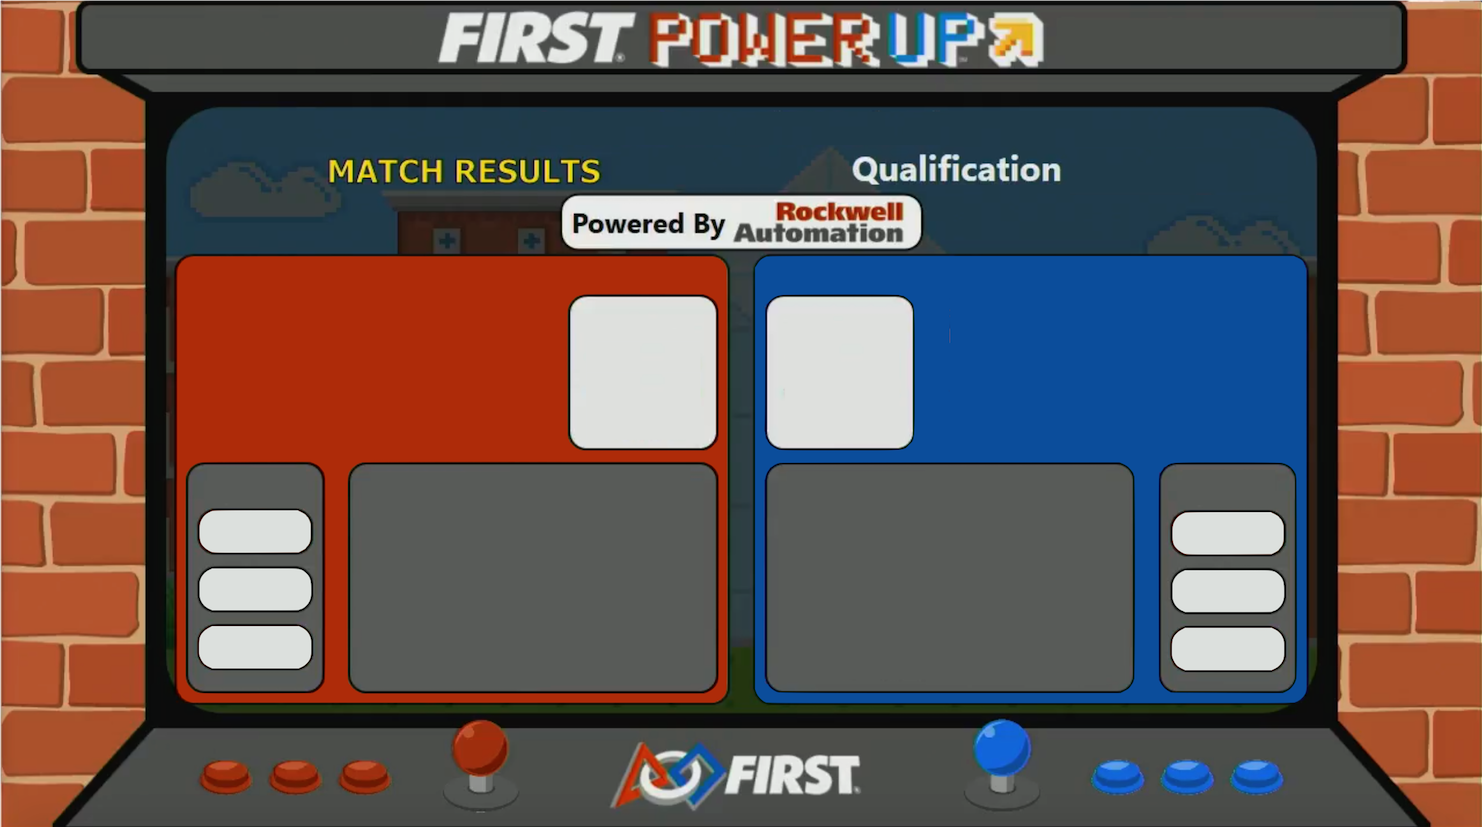
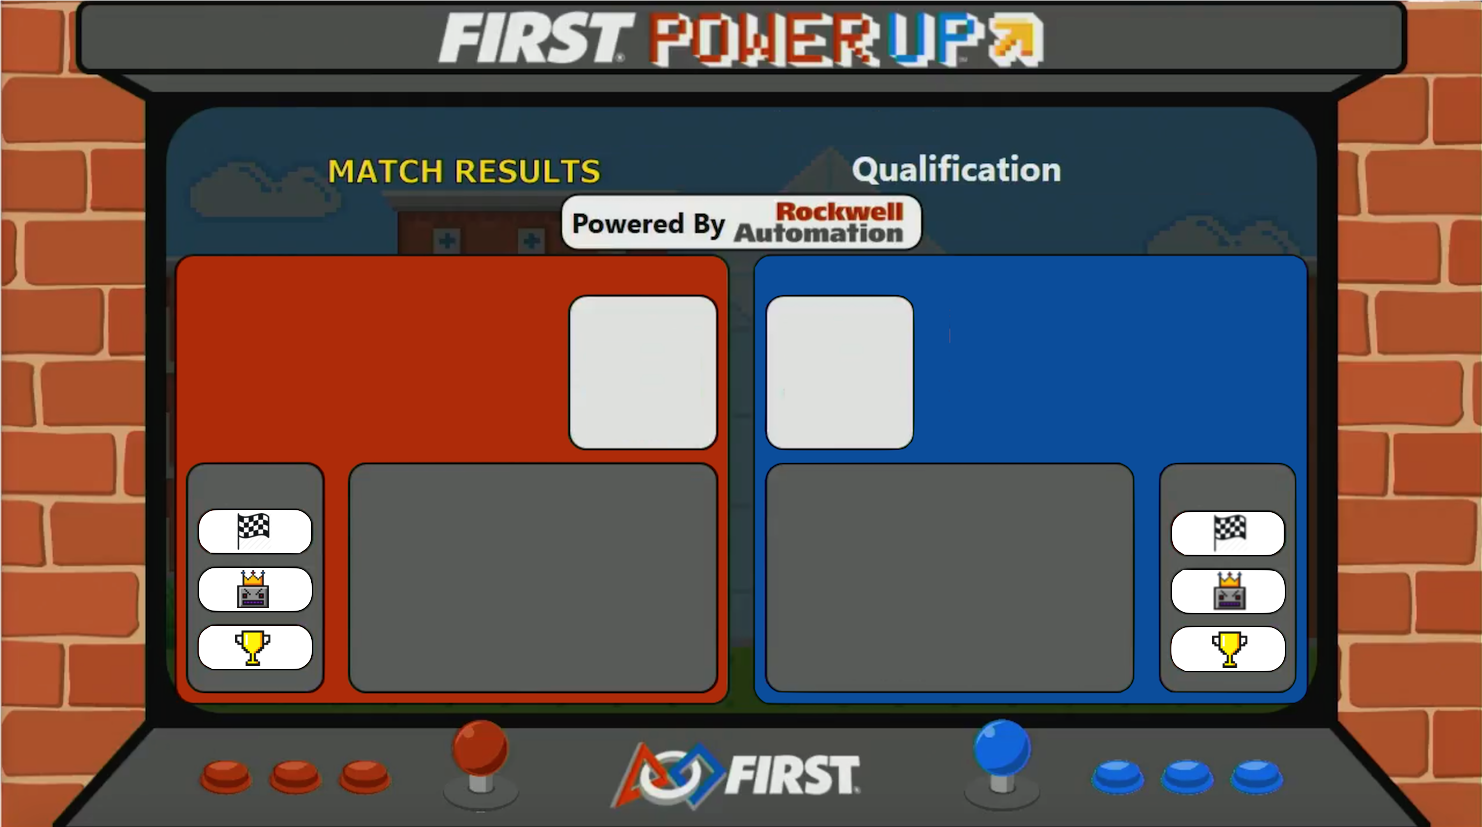
final commit

Changed region(s): [[0.776, 0.6046, 0.8691, 0.8162], [0.1242, 0.6046, 0.2173, 0.8162]]

diff --git a/index.html b/index.html
@@ -10,12 +10,15 @@
 
    </script>
    <body>
-		<canvas id="myCanvas" width="1482" height="827" style = "margin:0px">
+		<canvas id="myCanvas" width="1482" height="1000" style = "margin:0px">
    </body>
    <script>
 		// global vars
 		var matchScreen = true;
 		var videoEnded = false;
+
+		var redAutoQuest = false;
+		var blueAutoQuest = false;
 
 		var gameTime = -4;
 		// teams
@@ -89,19 +92,21 @@
 	      	// draw();
 	    });
 
-	    socket.on('finalize',function(_redAuto, _redEndgame, _redOwnership, _redVault, _redFoul, _blueAuto, _blueEndgame, _blueOwnership, _blueVault, _blueFoul) {
+	    socket.on('finalize',function(_redAuto, _redEndgame, _redOwnership, _redVault, _redFoul, _redAutoQuest, _blueAuto, _blueEndgame, _blueOwnership, _blueVault, _blueFoul, _blueAutoQuest) {
 
 	      	redAuto = _redAuto;
 	      	redEndgame = _redEndgame;
 	      	redOwnership = _redOwnership;
 	      	redVault = _redVault;
 	      	redFoul = _redFoul;
+	      	redAutoQuest = _redAutoQuest;
 
 	      	blueAuto = _blueAuto;
 	      	blueEndgame = _blueEndgame;
 	      	blueOwnership = _blueOwnership;
 	      	blueVault = _blueVault;
 	      	blueFoul = _blueFoul;
+	      	blueAutoQuest = _blueAutoQuest;
 
 	      	redScore = redAuto + redVault + redOwnership + redEndgame + blueFoul;
 	      	blueScore = blueAuto + blueVault + blueOwnership + blueEndgame + redFoul;
@@ -144,12 +149,15 @@
 			redOwnership = 274;
 			redVault = 0;
 			redFoul = 0;
+			redAutoQuest = false;
 
 			blueAuto = 0;
 			blueEndgame = 0;
 			blueOwnership = 0;
 			blueVault = 0;
 			blueFoul = 0;
+			blueAutoQuest = false;
+
 			requestAnimationFrame(updateCanvas);
 
 	    });
@@ -238,14 +246,10 @@
 				ctx.clearRect(0,0,canvas.width,canvas.height); 
 				// console.log("something");
 			    if(videoContainer !== undefined && videoContainer.ready){ 
-			    	// if (video.paused) {
-			    	// 	video.play();
-			    	// 	// video.loop = false;
-			    	// }
 			        var scale = videoContainer.scale;
 			        var vidH = videoContainer.video.videoHeight;
 			        var vidW = videoContainer.video.videoWidth;
-			        var top = canvas.height / 2 - (vidH /2 ) * scale;
+			        var top = 0;
 			        var left = canvas.width / 2 - (vidW /2 ) * scale;
 			        ctx.drawImage(videoContainer.video, left, top, vidW * scale, vidH * scale);
 			    }
@@ -284,6 +288,22 @@
 		}
 
 		function drawResultsScreen() {
+			// win, auto quest, boss
+			ctx.fillStyle = getColor(true, redAutoQuest);
+			ctx.fillRect(195, 500, 125, 60);
+			ctx.fillStyle = getColor(true, redEndgame == 90);
+			ctx.fillRect(195, 560, 125, 60);
+			ctx.fillStyle = getColor(true, redScore > blueScore);
+			ctx.fillRect(195, 620, 125, 60);
+			
+			var x = 1482 - 125 - 195;
+			ctx.fillStyle = getColor(false, blueAutoQuest);
+			ctx.fillRect(x, 500, 125, 60);
+			ctx.fillStyle = getColor(false, blueEndgame == 90);
+			ctx.fillRect(x, 560, 125, 60);
+			ctx.fillStyle = getColor(false, redScore < blueScore);
+			ctx.fillRect(x, 620, 125, 60);
+
 			ctx.drawImage(finalScoreImg, 0, 0);
 
 			ctx.fillStyle = 'black';
@@ -349,23 +369,24 @@
 			ctx.fillText('RED FOUL', x, 462 + 23 * 9);
 			ctx.strokeText('RED FOUL', x, 462 + 23 * 9);
 
+			ctx.font = 'bold 35pt Arial';
 			ctx.textAlign = "left";
-			x = 370;
-			ctx.fillText('' + redTeams[0], x, 260 + 33);
-			ctx.strokeText('' + redTeams[0], x, 260 + 33);
-			ctx.fillText('' + redTeams[1], x, 260 + 33 * 3);
-			ctx.strokeText('' + redTeams[1], x, 260 + 33 * 3);
-			ctx.fillText('' + redTeams[2], x, 260 + 33 * 5);
-			ctx.strokeText('' + redTeams[2], x, 260 + 33 * 5);
+			x = 430;
+			ctx.fillText('' + redTeams[0], x, 260 + 50);
+			ctx.strokeText('' + redTeams[0], x, 260 + 50);
+			ctx.fillText('' + redTeams[1], x, 260 + 150);
+			ctx.strokeText('' + redTeams[1], x, 260 + 150);
+			ctx.fillText('' + redTeams[2], x - 190, 260 + 50);
+			ctx.strokeText('' + redTeams[2], x - 190, 260 + 50);
 
 			ctx.textAlign = "right";
-			x = 1482 - 370;
-			ctx.fillText('' + blueTeams[0], x, 260 + 33);
-			ctx.strokeText('' + blueTeams[0], x, 260 + 33);
-			ctx.fillText('' + blueTeams[1], x, 260 + 33 * 3);
-			ctx.strokeText('' + blueTeams[1], x, 260 + 33 * 3);
-			ctx.fillText('' + blueTeams[2], x, 260 + 33 * 5);
-			ctx.strokeText('' + blueTeams[2], x, 260 + 33 * 5);
+			x = 1482 - 430;
+			ctx.fillText('' + blueTeams[0], x, 260 + 50);
+			ctx.strokeText('' + blueTeams[0], x, 260 + 50);
+			ctx.fillText('' + blueTeams[1], x, 260 + 150);
+			ctx.strokeText('' + blueTeams[1], x, 260 + 150);
+			ctx.fillText('' + blueTeams[2], x + 190, 260 + 50);
+			ctx.strokeText('' + blueTeams[2], x + 190, 260 + 50);
 		}
 
 		function drawMatchScreen() {
@@ -630,7 +651,7 @@
 			if (!isOwned) {
 				return '#B9B9B9';
 			} else if (isRed) {
-				return '#BD160A';
+				return '#AE2B09';//#BD160A';
 			} else {
 				return '#256AC5';
 			}

diff --git a/index.js b/index.js
@@ -6,7 +6,7 @@ var io = require('socket.io')(http);
 var running = false;
 var gameTime = -4;
 var intervalObj;
-
+var redAutoQuest = false, blueAutoQuest = false;
 // ownership
 var redOwnershipScore = 0;
 var blueOwnershipScore = 0;
@@ -108,6 +108,11 @@ function update(clientSocket) {
 		redOwnershipScore += redOwnershipIncrement;
 	}
 
+  if (gameTime == 15) {
+    redAutoQuest = bSwitchRed;
+    blueAutoQuest = bSwitchBlue;
+  }
+
   var redScore = getRedScore()[0];
   var blueScore = getBlueScore()[0];
   console.log("Red:" + redScore);
@@ -173,8 +178,8 @@ io.on('connection', function(clientSocket){
   clientSocket.on("finalize", function(data) {
     var redScores = getRedScore();
     var blueScores = getBlueScore();
-    io.emit("finalize", redScores[1], redScores[2], redScores[3], redScores[4], redScores[5], 
-      blueScores[1], blueScores[2], blueScores[3], blueScores[4], blueScores[5]);
+    io.emit("finalize", redScores[1], redScores[2], redScores[3], redScores[4], redScores[5], redAutoQuest && redCross == 3, 
+      blueScores[1], blueScores[2], blueScores[3], blueScores[4], blueScores[5], blueAutoQuest && blueCross == 3);
   });
   clientSocket.on("reset", function(data) {
     // reset data
@@ -207,6 +212,10 @@ io.on('connection', function(clientSocket){
 
     redCross = 0;
     blueCross = 0;
+
+    redAutoQuest = false;
+    blueAutoQuest = false;
+
     io.emit("reset", data);
   });
 
